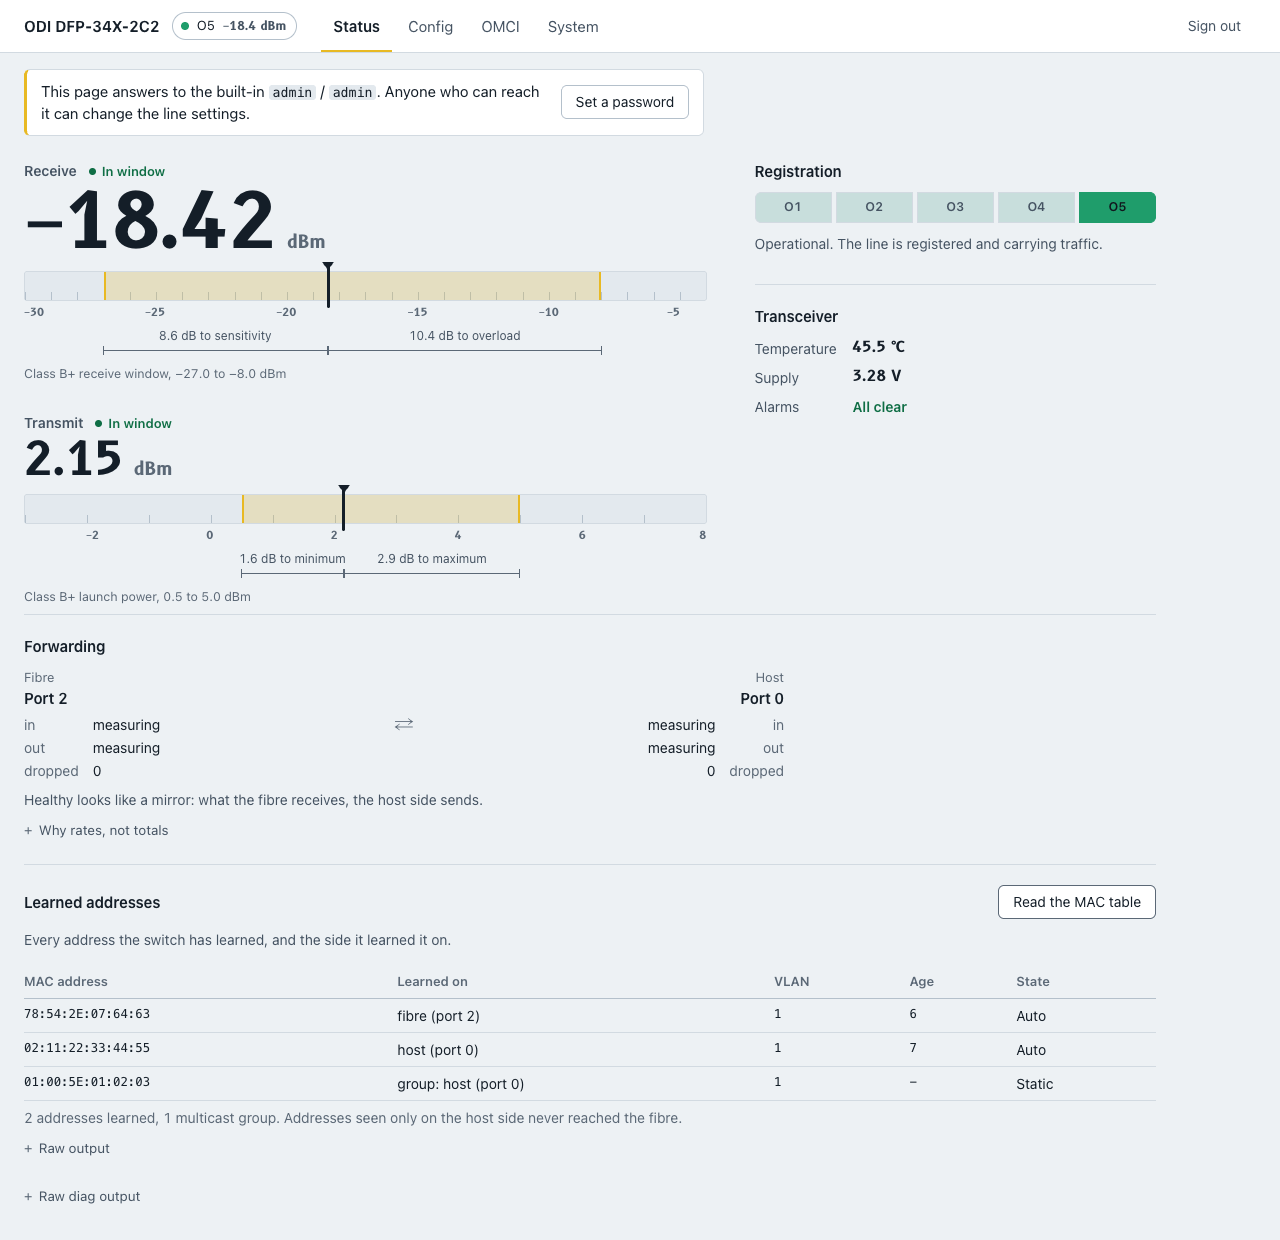
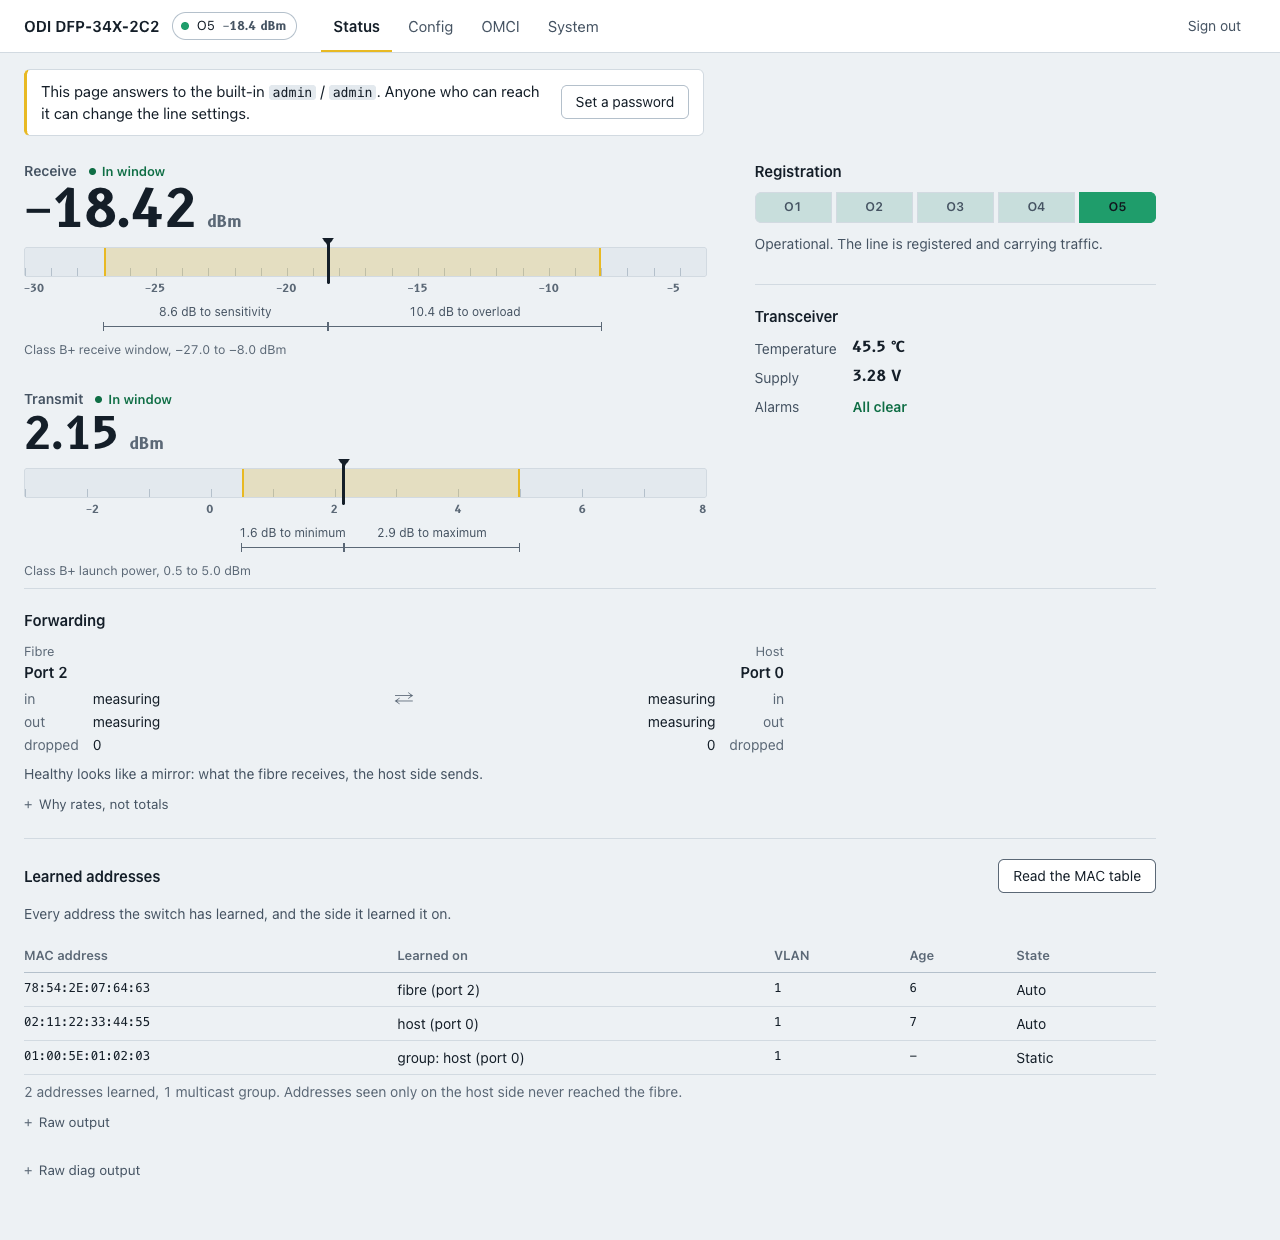
UI polish after v1.1.0: commit wording, generic trial band, T-CONT count (#10)
* UI polish after v1.1.0: commit wording, generic trial band, T-CONTs

From a live review of v1.1.0 on claro:

- "Keep" becomes "Commit" everywhere: Commit to this image in the trial
  band, Commit to partition N on the running slot, a Committed badge,
  and confirmations that say a committed image which later fails keeps
  booting itself. "What committing means", under the partitions, covers
  the default boot, the one-shot trial, and checking before committing.
- The trial band makes no claim about the other partition, which is not
  always the stock firmware: it says the image is not committed and
  which partition the next reboot returns to.
- The receive readout is 52 px at most (was 76), closer to transmit.
- Forwarding rates show at most two decimals; below 1 kB/s the float
  was printed whole.
- T-CONTs with Alloc-ID 255 (G.988 9.2.2: no Alloc-ID assigned; 65535 on
  later PONs) are unassigned, not provisioned: "5 assigned" and "11
  unassigned", not "16 provisioned".

* Screenshots: retake all, add the MAC table, trial banner and commit views

Every image in docs/screenshots is retaken after this round. New:
ui-mactable.png, ui-trial.png and ui-committing.png. The README
references all nine. Names are stable, since odi-oss links to them from
main instead of keeping copies.

---------

diff --git a/web/firmware.js b/web/firmware.js
@@ -2,7 +2,7 @@
  * The Firmware tab: which partition is which, and the one-shot trial boot.
  *
  * sw_tryactive boots a partition ONCE with the watchdog armed, so an image that
- * does not come up reverts itself. Keeping it is a separate, deliberate act.
+ * does not come up reverts itself. Committing it is a separate, deliberate act.
  */
 
 import { $, el, fail, get, bytes } from './dom.js';
@@ -17,6 +17,7 @@ const WRITE_POLL_MS = 3000;
  * what should NOT quietly become writable with one click.
  */
 let UPLOADED = null;
+let COMMIT_WHY = null;
 
 /*
  * Upload. XHR rather than fetch, for the one thing fetch cannot do: report
@@ -196,7 +197,7 @@ async function renderFirmware() {
     head.append(el('h2', null, 'Partition ' + p));
     const tags = el('span', 'slot-tags');
     if (p === booted) tags.append(el('span', 'tag live', 'Running'));
-    if (p === committed) tags.append(el('span', 'tag', 'Kept'));
+    if (p === committed) tags.append(el('span', 'tag', 'Committed'));
     if (p === pending && pending !== '2') tags.append(el('span', 'tag warn', 'Trial pending'));
     head.append(tags);
     card.append(head);
@@ -226,20 +227,20 @@ async function renderFirmware() {
         + '. Writing replaces it, and you lose it as a fallback.'));
     }
     /* Try only the slot you are NOT running: a trial of the running one
-       boots what is already up. Keeping the running slot is the same act
-       as the trial banner Keep this image, and goes through the same code. */
+       boots what is already up. Committing the running slot is the same act
+       as the trial banner Commit to this image, and goes through the same code. */
     if (p !== committed && p !== booted) {
       const b = el('button', null, 'Try partition ' + p);
       b.type = 'button';
       b.onclick = () => fwAction('try', p,
         `Partition ${p} will boot once, at the next reboot. If it fails, the stick `
-        + `returns to partition ${committed} on its own.`);
+        + `returns to partition ${committed}, the committed one, on its own.`);
       acts.append(b);
     }
     if (p !== committed && p === booted) {
-      const b = el('button', 'primary', 'Keep this image');
+      const b = el('button', 'primary', 'Commit to partition ' + p);
       b.type = 'button';
-      b.onclick = () => keepRunning();
+      b.onclick = () => commitRunning();
       acts.append(b);
     }
     /*
@@ -263,6 +264,11 @@ async function renderFirmware() {
     grid.append(card);
   }
   host.append(grid);
+  /* The explanation sits right under the partitions it is about. It is
+     static markup in index.html, held here because the host is rebuilt on
+     every render and would otherwise drop it. */
+  COMMIT_WHY = COMMIT_WHY || $('#commit-why');
+  if (COMMIT_WHY) host.append(COMMIT_WHY);
 
   /* Spell the commands out with this stick's own address and the partition it
      is not running, so they can be pasted without being adapted. */
@@ -354,7 +360,7 @@ async function fwAction(action, partition, warning) {
         `Partition ${partition} is armed for one boot. Reboot to try it; if it ` +
         `does not come up the stick returns here on its own.`));
     } else if (action === 'commit') {
-      out.append(el('div', 'good', `Partition ${partition} is now the one it boots.`));
+      out.append(el('div', 'good', `Committed: partition ${partition} is now the one it boots.`));
     } else {
       out.append(el('div', 'warn', 'Rebooting. This page will stop responding.'));
     }
@@ -395,32 +401,34 @@ function renderTrial() {
   const holds = { odi: 'an odi-oss image', stock: 'the stock firmware', other: 'an image that is not odi-oss',
                   unknown: 'an image this page cannot identify' }[k.kind];
   const rec = env['sw_version' + back];
+  /* Generic on purpose: no claim about what the other slot holds. It is not
+     always the stock firmware, and System > Firmware says what it is. */
   $('#trial-what').textContent = main !== run
-    ? `This image, on partition ${run}, is not kept: the next reboot returns to partition ${back}, `
-      + `which holds ${holds}${rec ? ' (U-Boot records ' + rec + ')' : ''}.`
-    : `Partition ${run} is kept in the active U-Boot copy, but the fallback copy still names `
-      + `partition ${back} (${holds}). If the active copy is ever lost, the stick boots that.`;
+    ? `This image (partition ${run}) is not committed. The next reboot returns to partition ${back}.`
+    : `Partition ${run} is committed in the active U-Boot copy, but the fallback copy still names `
+      + `partition ${back}. If the active copy is ever lost, the stick boots that.`;
 
-  const keep = $('#trial-keep');
-  keep.hidden = main === run;
-  keep.onclick = () => keepRunning();
+  const commit = $('#trial-commit');
+  commit.hidden = main === run;
+  commit.onclick = () => commitRunning();
 }
 
 /*
- * Keep the running image: sw_commit to the running slot. One path, used by
+ * Commit to the running image: sw_commit to the running slot. One path, used by
  * the trial banner and by the running slot on the Firmware subtab, so the
  * two cannot drift into saying or doing different things.
  */
-async function keepRunning() {
+async function commitRunning() {
   const env = (S.FW || {}).env || {};
   const run = env.sw_active;
   const back = env.sw_commit;
   const out = $('#trial-out');
   out.textContent = '';
   if (run === undefined) return;
-  if (!confirm(`Keep partition ${run}?\n\nIt becomes the one the stick boots from now on`
-      + (back !== undefined && back !== run ? `, instead of partition ${back}.` : '.'))) return;
-  const btn = $('#trial-keep');
+  if (!confirm(`Commit to partition ${run}?\n\nIt becomes the one the stick boots by default`
+      + (back !== undefined && back !== run ? `, instead of partition ${back}.` : '.')
+    + ' If it later fails to come up, the stick keeps booting it: there is no trial to fall back from.')) return;
+  const btn = $('#trial-commit');
   btn.disabled = true;
   try {
     const r = await fetch('/api/firmware', {
@@ -429,11 +437,11 @@ async function keepRunning() {
       body: 'action=commit&partition=' + encodeURIComponent(run),
     });
     const res = await r.json();
-    if (!res.ok) { out.append(el('div', 'bad', res.error || 'not kept')); return; }
+    if (!res.ok) { out.append(el('div', 'bad', res.error || 'not committed')); return; }
     S.FW = await get('/api/firmware');
     renderTrial();
     if (!$('#trialbanner').hidden) {
-      out.append(el('div', null, 'Kept in the active copy. confd writes only that one; '
+      out.append(el('div', null, 'Committed in the active copy. confd writes only that one; '
         + `over SSH, nv setenv -c <copy> sw_commit ${run} makes the fallback agree.`));
     }
     if (!$('#p-system').hidden) await renderFirmware();

diff --git a/web/services.js b/web/services.js
@@ -33,7 +33,7 @@ const CARDS = [
   { me: '171', title: 'VLAN translation',               render: renderExtVlan },
   { me: '47',  title: 'How this line is bridged',       render: renderBridge },
   { me: '262', title: 'Upstream containers (T-CONT)',   render: renderIds, onu: true,
-    key: 'AllocID', what: 'allocation id' },
+    key: 'AllocID', what: 'allocation id', unassigned: [255, 65535] },
   { me: '268', title: 'GEM ports',                      render: renderIds, key: 'PortID', what: 'GEM port id' },
 ];
 /*
@@ -112,7 +112,7 @@ function renderSwImage(box, dump) {
     const com = Number(attr(inst, 'Committed'));
     const tags = [];
     if (act === 1) tags.push('running');
-    if (com === 1) tags.push('kept');
+    if (com === 1) tags.push('committed');
     dl.append(el('dt', '', 'Image ' + (inst.id || '?')),
               el('dd', '', ver + (tags.length ? ' (' + tags.join(', ') + ')' : '')));
   }
@@ -320,14 +320,35 @@ function renderBridge(box, dump) {
    identifier a support thread asks for is the allocation or port id, not the
    entity id, so that is what is listed when the dump carries it. */
 function renderIds(box, dump, card) {
-  const ids = dump.instances.map((i) => {
+  const vals = dump.instances.map((i) => {
     const v = card && card.key ? attr(i, card.key) : null;
-    return v !== null && v !== '' && Number.isFinite(Number(v)) ? String(Number(v)) : i.id;
-  }).filter(Boolean);
-  const n = ids.length;
-  box.append(el('p', 'me-lead', n + ' provisioned'
-    + (card && card.key && dump.instances.some((i) => attr(i, card.key) !== null)
-      ? ', by ' + card.what : '') + ': ' + ids.join(', ')));
+    return v !== null && v !== '' && Number.isFinite(Number(v)) ? Number(v) : null;
+  });
+  /*
+     The ONU creates every T-CONT it has at MIB reset, with no Alloc-ID; the
+     OLT assigns one to each T-CONT it uses. G.988 (9.2.2) gives 255 as "no
+     Alloc-ID assigned" on G.984 GPON, and 65535 on the later PON families.
+     Counting those as provisioned turned five T-CONTs into sixteen.
+  */
+  const free = new Set(card && card.unassigned || []);
+  const used = [];
+  let spare = 0;
+  dump.instances.forEach((inst, i) => {
+    if (vals[i] === null) used.push(inst.id);
+    else if (free.has(vals[i])) spare++;
+    else used.push(String(vals[i]));
+  });
+  const by = card && card.key && vals.some((v) => v !== null) ? ', by ' + card.what : '';
+  if (!used.length) {
+    box.append(el('p', 'me-lead', 'None assigned'));
+  } else {
+    box.append(el('p', 'me-lead', used.length + (free.size ? ' assigned' : ' provisioned')
+      + by + ': ' + used.join(', ')));
+  }
+  if (spare) {
+    box.append(note(spare + ' unassigned: created by the ONU, not given an '
+      + card.what + ' by the OLT.'));
+  }
 }
 
 /* --- the page ------------------------------------------------------------ */

diff --git a/web/index.html b/web/index.html
@@ -40,7 +40,7 @@
        as U-Boot would boot another partition next. Not dismissible. -->
   <div id="trialbanner" class="trial" role="status" hidden>
     <p><strong>Trial boot.</strong> <span id="trial-what"></span></p>
-    <button id="trial-keep" class="primary" type="button">Keep this image</button>
+    <button id="trial-commit" class="primary" type="button">Commit to this image</button>
     <div id="trial-out"></div>
   </div>
 </header>
@@ -202,6 +202,19 @@
     <!-- Firmware -->
     <div class="sub" id="s-firmware" role="tabpanel" aria-labelledby="st-system-firmware" data-sub="firmware">
       <div id="parts"></div>
+      <details class="more" id="commit-why">
+        <summary>What committing means</summary>
+        <p>U-Boot boots the <strong>committed</strong> partition by default, every
+           time: the one marked Committed above (<code>sw_commit</code>).</p>
+        <p>A trial boot is one-shot. Trying a partition boots it once; the next
+           reboot, whether the image came up or not, returns to the committed
+           partition.</p>
+        <p>Committing makes the running image the default, so it is what every
+           later reboot comes back to.</p>
+        <p>A committed image that later fails keeps booting itself: there is no
+           trial left to fall back from. Check that it registers and carries
+           traffic before you commit to it.</p>
+      </details>
 
       <section class="block">
         <h2>Load a new image</h2>
@@ -216,9 +229,9 @@
           <summary>How a trial boot works</summary>
           <p>Trying a partition boots it <strong>once</strong>, with the hardware
              watchdog armed. If the image does not come up, the stick returns by
-             itself to whichever partition is kept &mdash; no console, no
+             itself to whichever partition is committed &mdash; no console, no
              intervention. A trial that boots fine still reverts at the next
-             reboot, so keeping it is a separate decision you make after seeing
+             reboot, so committing to it is a separate decision you make after seeing
              it work.</p>
           <p>Writing takes about eighty seconds and runs on the stick by itself:
              this page follows it, and closing the page does not stop it. Do not

diff --git a/web/style.css b/web/style.css
@@ -335,9 +335,9 @@ h3.sec { margin: 24px 0 0; padding-bottom: 6px; color: var(--ink-2); font-size: 
 .m-verdict { font-size: 13px; font-weight: 600; color: var(--state); }
 .m-verdict::before { content: ""; display: inline-block; width: 7px; height: 7px; border-radius: 50%; background: currentColor; margin-right: 6px; vertical-align: 1px; }
 .m-read { display: flex; align-items: baseline; gap: 10px; margin: 2px 0 12px; }
-.m-read .num { font: 700 clamp(48px, 7vw, 76px)/1 var(--readout); letter-spacing: -0.02em; color: var(--ink); }
-.m-read .unit { font: 700 18px var(--readout); color: var(--ink-3); }
-#tx .m-read .num { font-size: clamp(34px, 4.4vw, 46px); }
+.m-read .num { font: 700 clamp(38px, 4.6vw, 52px)/1 var(--readout); letter-spacing: -0.02em; color: var(--ink); }
+.m-read .unit { font: 700 16px var(--readout); color: var(--ink-3); }
+#tx .m-read .num { font-size: clamp(32px, 3.8vw, 44px); }
 
 .instrument { position: relative; padding-bottom: 36px; }
 .scale { position: relative; height: 30px; border-radius: 3px; background: var(--well); border: 1px solid var(--line); }

diff --git a/web/dom.js b/web/dom.js
@@ -31,7 +31,10 @@ const bytes = (n) => {
   const u = ['B', 'kB', 'MB', 'GB', 'TB'];
   let i = 0;
   while (n >= 1000 && i < u.length - 1) { n /= 1000; i++; }
-  return (i ? n.toFixed(n < 10 ? 2 : 1) : String(n)) + ' ' + u[i];
+  /* At most two decimals at any scale. A rate is a byte count over a
+     fractional interval, so below 1 kB it used to print the float whole
+     (123.456789 B/s). */
+  return (i ? n.toFixed(n < 10 ? 2 : 1) : String(Math.round(n * 100) / 100)) + ' ' + u[i];
 };
 
 export { $, el, fail, get, bytes };

diff --git a/docs/DESIGN.md b/docs/DESIGN.md
@@ -95,8 +95,10 @@ chip in the header on every other view.
 A **trial boot** is a different thing and looks it: a full-width band in the
 sticky header, on every view, for as long as U-Boot would boot another
 partition next -- `sw_commit`, in either copy of the redundant environment,
-naming a slot other than the running one. It says where the next reboot goes
-and what that slot holds, and offers *Keep this image*, which is the existing
+naming a slot other than the running one. It says only that this image is
+not committed and which partition the next reboot returns to -- what that
+partition holds is on System > Firmware, not claimed in the band, since it is
+not always the stock firmware -- and offers *Commit to this image*, which is the existing
 `action=commit` (`nv setenv sw_commit <slot>`). It cannot be dismissed. The
 commit writes only the winning environment copy; when only the fallback copy
 disagrees the band says so, and says how to make it agree over SSH.
@@ -333,13 +335,13 @@ scripts/classify-apply.py /path/to/squashfs-root schema/keys.tsv > schema/consum
 
 ## Firmware
 
-Shows both partitions, their versions, which one is kept and which is running,
+Shows both partitions, their versions, which one is committed and which is running,
 and offers the two actions that matter:
 
 - **Try** arms `sw_tryactive`, which boots that partition **once** with the
   hardware watchdog armed. If the image does not come up, the stick returns by
-  itself to whichever partition is kept — no console, no intervention.
-- **Keep** writes `sw_commit`, and is a separate decision made *after* seeing
+  itself to whichever partition is committed — no console, no intervention.
+- **Commit** writes `sw_commit`, and is a separate decision made *after* seeing
   the trial work. A trial that boots fine still reverts on the next reboot.
 
 Writing `sw_commit` up front instead is what every runbook for this device used
@@ -362,7 +364,10 @@ overwritten: the kernel name, its build date and what U-Boot records.
 
 Try is offered only for the slot the stick is not running, and only when that
 slot is not already the committed one; the running, uncommitted slot offers
-*Keep this image*, the same code path as the trial band. The page calls the
+*Commit to partition N*, the same code path as the trial band's *Commit to this
+image*. "What committing means", under the partitions, says which partition
+U-Boot boots by default, that a trial is one-shot, and that a committed image
+which later fails keeps booting itself. The page calls the
 answering confd an override by the path it was started from (`exe`, argv[0]:
 `/etc/config/confd/` for a `scripts/deploy.sh` install, `/bin/confd` for the
 image copy), never by comparing build ids: a local image build stamps

diff --git a/README.md b/README.md
@@ -39,10 +39,14 @@ From the qemu preview (`scripts/preview.sh`) with recorded fixtures; identifiers
 | Status | Config |
 |---|---|
 | ![Status: receive and transmit levels on the class B+ window, registration, transceiver, forwarding](docs/screenshots/ui-status.png) | ![Config, VLAN subtab: each setting with its apply cost, and the save bar](docs/screenshots/ui-config.png) |
-| **OMCI services** | **Firmware** |
-| ![OMCI services: what the OLT provisioned, one card per managed entity](docs/screenshots/ui-services.png) | ![Firmware: both partitions, what each holds, and the stock-firmware warning](docs/screenshots/ui-firmware.png) |
-| **Light theme** | **Phone width** |
-| ![Status page in the light theme](docs/screenshots/ui-status-light.png) | ![Config at phone width, stacked rows](docs/screenshots/ui-config-mobile.png) |
+| **Learned addresses** | **OMCI services** |
+| ![Forwarding rates and the MAC table the switch learned, with a multicast group](docs/screenshots/ui-mactable.png) | ![OMCI services: what the OLT provisioned, one card per managed entity](docs/screenshots/ui-services.png) |
+| **Firmware** | **Trial boot** |
+| ![Firmware: both partitions, what each holds, and the stock-firmware warning](docs/screenshots/ui-firmware.png) | ![A trial boot: the banner on every page, with Commit to this image](docs/screenshots/ui-trial.png) |
+| **What committing means** | **Light theme** |
+| ![Firmware during a trial, with the What committing means disclosure open](docs/screenshots/ui-committing.png) | ![Status page in the light theme](docs/screenshots/ui-status-light.png) |
+| **Phone width** | |
+| ![Config at phone width, stacked rows and the save bar](docs/screenshots/ui-config-mobile.png) | |
 
 ## Getting it
 

diff --git a/CHANGELOG.md b/CHANGELOG.md
@@ -6,6 +6,33 @@ The format is based on [Keep a Changelog](https://keepachangelog.com/en/1.1.0/).
 
 ## Unreleased
 
+### Changed
+- "Keep" is now "Commit" everywhere: the trial banner offers Commit to this
+  image, the running slot Commit to partition N, the default slot is badged
+  Committed, and the confirmations say what committing means. System >
+  Firmware explains it under the partitions (What committing means): U-Boot
+  boots the committed partition by default, a trial is one-shot, committing
+  makes the running image the default, and a committed image that later fails
+  keeps booting itself.
+- The trial banner no longer says what the other partition holds (it is not
+  always the stock firmware): "This image (partition 1) is not committed. The
+  next reboot returns to partition 0." System > Firmware shows what each holds.
+- The receive readout is smaller (52 px at most, was 76), closer to transmit
+  (44 px), so it leads the Status page without dominating it.
+
+- Screenshots retaken, with three new ones: `ui-mactable.png` (forwarding
+  and learned addresses), `ui-trial.png` (the trial banner) and
+  `ui-committing.png` (Firmware during a trial, the commit explanation open).
+  The file names are stable; odi-oss links to them.
+
+### Fixed
+- Forwarding rates show at most two decimals; below 1 kB/s they printed the
+  raw float.
+- OMCI > Services: T-CONTs with Alloc-ID 255 (G.988: no Alloc-ID assigned on
+  G.984; 65535 on later PONs) are counted as unassigned, not provisioned, so
+  a line with five in use reads "5 assigned: 282, 794, 1050, 1306, 538" and
+  "11 unassigned" instead of "16 provisioned".
+
 ## v1.1.0 - 2026-09-29
 
 ### Changed
